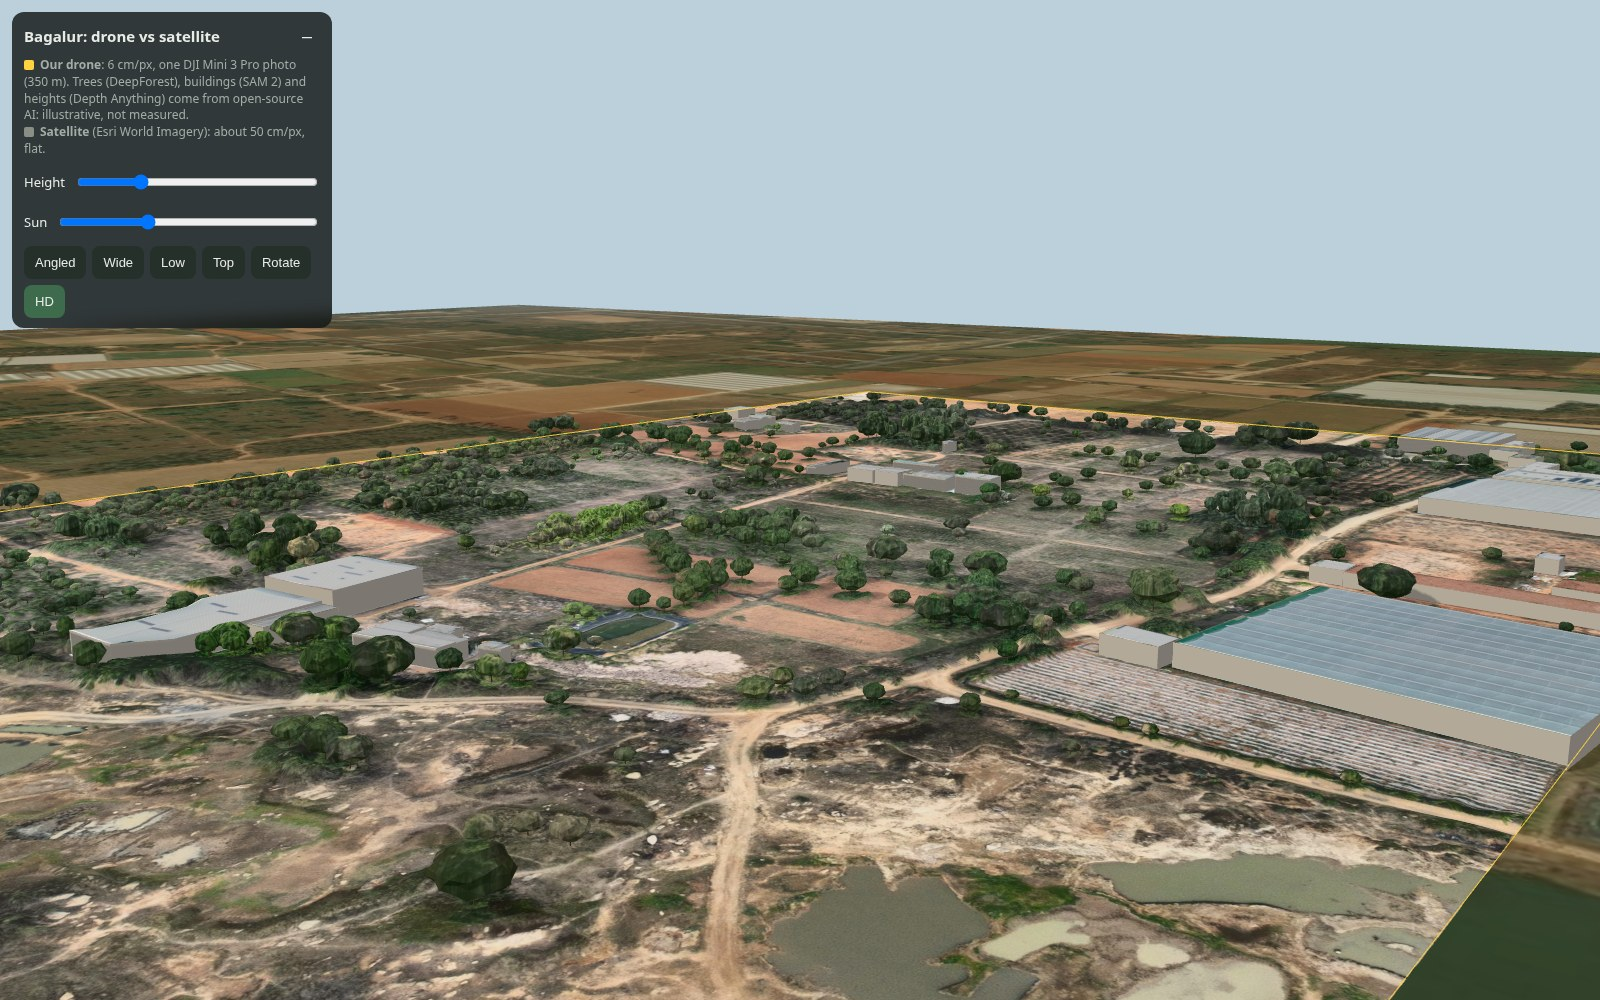
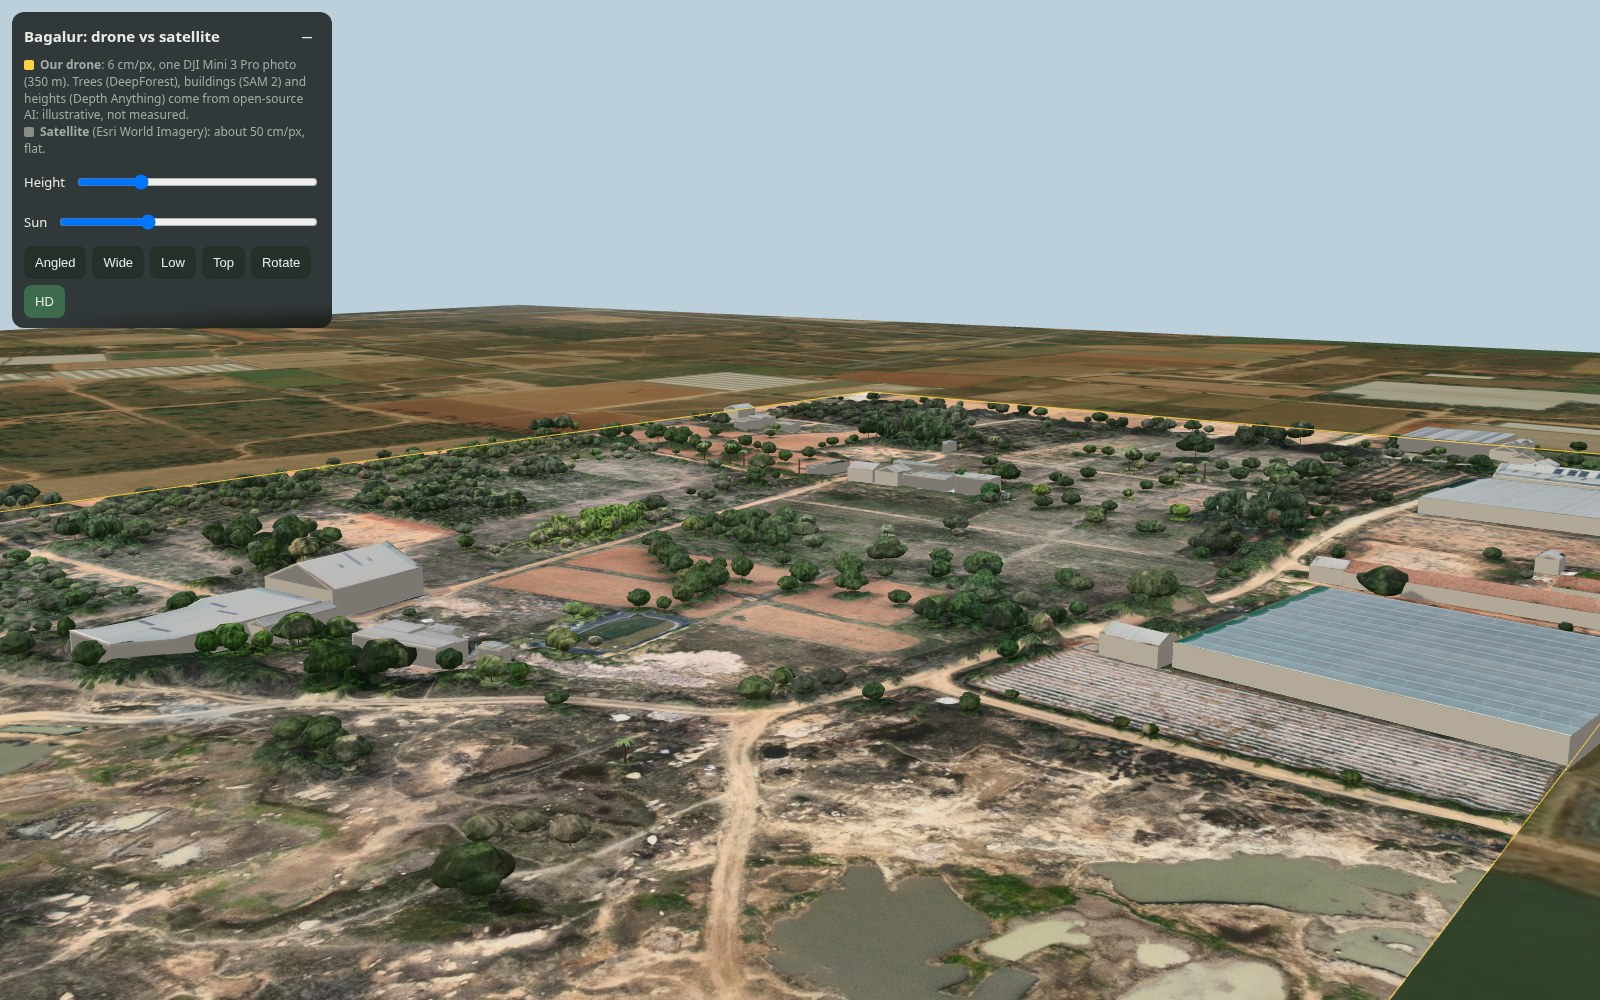
3D viewer: gable roofs, coconut palms, lobed tree crowns with shading

diff --git a/test-data/bagalur/ai3d/web/index.html b/test-data/bagalur/ai3d/web/index.html
@@ -85,7 +85,7 @@ const [SW, SH] = AL.sat_size, SPX = AL.sat_px_m, [DW, DH] = AL.drone_size, A = A
 // drone pixel (u,v) -> world metres (x east, z south), origin = centre of the satellite block
 const SEAM = await (await fetch("seam.json")).json();
 const DPX = Math.hypot(A[0][0], A[1][0]) * SPX;   // metres per drone px
-const TREES = (await (await fetch("trees.json")).json()).trees;       // [cx, cy, rx, ry] in drone px + relative height (DeepForest + canopy peaks)
+const TREES = (await (await fetch("trees.json")).json()).trees;       // [cx, cy, rx, ry] in drone px, relative height, palm flag (DeepForest + canopy peaks)
 const BLD = (await (await fetch("buildings.json")).json()).buildings;   // roof outlines in drone px (SAM 2.1), h = relative height   // correction grid (satellite px) so roads meet the satellite cleanly
 function seamAt(u, v) {   // bilinear sample of the grid at drone pixel (u, v)
   const fx = Math.min(Math.max(u / DW, 0), 1) * (SEAM.gx - 1), fy = Math.min(Math.max(v / DH, 0), 1) * (SEAM.gy - 1);
@@ -140,27 +140,41 @@ function addOutline() {   // 1 px yellow line around the mapped area, sharp at a
   outline = new THREE.LineLoop(g, new THREE.LineBasicMaterial({ color: 0xffd23f, fog: false, depthTest: false, transparent: true, opacity: 0.9 }));
   outline.renderOrder = 10; scene.add(outline);
 }
-// Buildings: the terrain is flat under them; each one is an extruded box with the photo on the roof and plain walls
+// Buildings: the terrain is flat under them. Each is extruded: photo on the roof, plain walls; plain rectangles get a ridge (gable) roof.
 let hw = 0, hh = 0, bld = null;
 function addBuildings(tex) {
   if (bld) { scene.remove(bld); bld.traverse(o => { o.geometry?.dispose(); o.material?.dispose(); }); }
   bld = new THREE.Group();
   const roofM = new THREE.MeshStandardMaterial({ map: tex, roughness: 0.8, side: THREE.DoubleSide }), wallM = new THREE.MeshStandardMaterial({ color: 0xd8d4cb, roughness: 0.95, side: THREE.DoubleSide });   // double-sided: outline direction varies
   for (const b of BLD) {
-    const P = b.poly, n = P.length, w = P.map(([u, v]) => toWorld(u, v));
-    const tris = THREE.ShapeUtils.triangulateShape(P.map(([u, v]) => new THREE.Vector2(u, v)), []);
+    let P = b.poly.map(q => q.slice()), n = P.length, ridge = 0;
+    const R = [];                                        // roof points: [u, v, isRidge]
+    let roofIdx, gableIdx = [];
+    if (b.roof === "gable") {
+      const w = P.map(([u, v]) => toWorld(u, v)), d = (i, j) => Math.hypot(w[i][0] - w[j][0], w[i][1] - w[j][1]);
+      if (d(0, 1) < d(1, 2)) P = [P[1], P[2], P[3], P[0]];            // make edge 0-1 the long side
+      const mid = (i, j) => [(P[i][0] + P[j][0]) / 2, (P[i][1] + P[j][1]) / 2];
+      P.forEach(q => R.push([q[0], q[1], 0])); R.push([...mid(1, 2), 1], [...mid(3, 0), 1]);
+      roofIdx = [0, 1, 4, 0, 4, 5, 2, 3, 5, 2, 5, 4]; gableIdx = [[1, 2, 4], [3, 0, 5]];
+      const ww = P.map(([u, v]) => toWorld(u, v)); ridge = 0.2 * Math.hypot(ww[1][0] - ww[2][0], ww[1][1] - ww[2][1]);   // about a 22 degree pitch
+    } else {
+      P.forEach(q => R.push([q[0], q[1], 0]));
+      roofIdx = THREE.ShapeUtils.triangulateShape(P.map(([u, v]) => new THREE.Vector2(u, v)), []).flat();
+    }
+    const rw = R.map(([u, v]) => toWorld(u, v));
     const roof = new THREE.BufferGeometry();
-    roof.setAttribute("position", new THREE.BufferAttribute(new Float32Array(n * 3), 3));
-    roof.setAttribute("uv", new THREE.BufferAttribute(new Float32Array(P.flatMap(([u, v]) => [u / DW, 1 - v / DH])), 2));
-    roof.setIndex(tris.flat());
+    roof.setAttribute("position", new THREE.BufferAttribute(new Float32Array(R.length * 3), 3));
+    roof.setAttribute("uv", new THREE.BufferAttribute(new Float32Array(R.flatMap(([u, v]) => [u / DW, 1 - v / DH])), 2));
+    roof.setIndex(roofIdx);
     const wall = new THREE.BufferGeometry();
-    wall.setAttribute("position", new THREE.BufferAttribute(new Float32Array(n * 12), 3));
+    wall.setAttribute("position", new THREE.BufferAttribute(new Float32Array((n * 4 + gableIdx.length * 3) * 3), 3));
     const idx = []; for (let i = 0; i < n; i++) { const o = i * 4; idx.push(o, o + 1, o + 2, o + 2, o + 1, o + 3); }
+    gableIdx.forEach((_, k) => idx.push(n * 4 + k * 3, n * 4 + k * 3 + 1, n * 4 + k * 3 + 2));
     wall.setIndex(idx);
     const cu = P.reduce((a, q) => a + q[0], 0) / n, cv = P.reduce((a, q) => a + q[1], 0) / n;
     const rm = new THREE.Mesh(roof, roofM), wm = new THREE.Mesh(wall, wallM);
     rm.castShadow = wm.castShadow = rm.receiveShadow = wm.receiveShadow = true;
-    rm.userData = wm.userData = { w, h: b.h, gi: Math.min(hh - 1, Math.round(cv / DH * (hh - 1))) * hw + Math.min(hw - 1, Math.round(cu / DW * (hw - 1))) };
+    rm.userData = { n, rw, R, ridge, gableIdx, h: b.h, gi: Math.min(hh - 1, Math.round(cv / DH * (hh - 1))) * hw + Math.min(hw - 1, Math.round(cu / DW * (hw - 1))) };
     bld.add(rm, wm);
   }
   scene.add(bld);
@@ -168,55 +182,91 @@ function addBuildings(tex) {
 function raiseBuildings() {
   if (!bld) return;
   for (let k = 0; k < bld.children.length; k += 2) {
-    const rm = bld.children[k], wm = bld.children[k + 1], { w, h, gi } = rm.userData;
-    const y0 = hts[gi] * ex, y1 = y0 + Math.max((0.25 + 0.6 * h) * ex, 0.05), rp = rm.geometry.attributes.position, wp = wm.geometry.attributes.position;
-    w.forEach(([x, z], i) => {
-      const [x2, z2] = w[(i + 1) % w.length];
-      rp.setXYZ(i, x, y1, z);
+    const rm = bld.children[k], wm = bld.children[k + 1], { n, rw, R, ridge, gableIdx, h, gi } = rm.userData;
+    const y0 = hts[gi] * ex, y1 = y0 + Math.max((0.25 + 0.6 * h) * ex, 0.05), yr = y1 + ridge * Math.min(1, ex / 10);
+    const rp = rm.geometry.attributes.position, wp = wm.geometry.attributes.position, Y = i => R[i][2] ? yr : y1;
+    rw.forEach(([x, z], i) => rp.setXYZ(i, x, Y(i), z));
+    for (let i = 0; i < n; i++) {
+      const [x, z] = rw[i], [x2, z2] = rw[(i + 1) % n];
       wp.setXYZ(i * 4, x, y1, z); wp.setXYZ(i * 4 + 1, x2, y1, z2); wp.setXYZ(i * 4 + 2, x, y0 - 1, z); wp.setXYZ(i * 4 + 3, x2, y0 - 1, z2);
-    });
+    }
+    gableIdx.forEach((tri, t) => tri.forEach((i, j) => wp.setXYZ(n * 4 + t * 3 + j, rw[i][0], Y(i), rw[i][1])));
     rp.needsUpdate = wp.needsUpdate = true; rm.geometry.computeVertexNormals(); wm.geometry.computeVertexNormals();
     rm.geometry.computeBoundingSphere(); wm.geometry.computeBoundingSphere();
   }
 }
-// Trees: one lumpy ellipsoid crown per detected tree, textured by the photo projected straight down, on a short trunk
-let treeMesh = null, trunkMesh = null, tInfo = null;
+// Trees: crowns textured by the photo projected straight down, on trunks. Big trees are a cluster of lobes, small ones a single lobe,
+// coconut palms a tall trunk with drooping fronds. Undersides are darkened a little so crowns read as solid.
+let treeMesh = null, trunkMesh = null, palmMesh = null, tInfo = null;
 const gAt = (u, v) => hts[Math.min(hh - 1, Math.max(0, Math.round(v / DH * (hh - 1)))) * hw + Math.min(hw - 1, Math.max(0, Math.round(u / DW * (hw - 1))))];
+const rnd = (a, b, c) => { const x = Math.sin(a * 127.1 + b * 311.7 + c * 74.7) * 43758.5453; return x - Math.floor(x); };
 function addTrees(tex) {
-  for (const m of [treeMesh, trunkMesh]) if (m) { scene.remove(m); m.geometry.dispose(); m.material.dispose(); }
-  const ico = new THREE.IcosahedronGeometry(1, hd ? 2 : 1), ip = ico.attributes.position, nv = ip.count, T = TREES.length;   // non-indexed: faceted, reads as foliage
-  const pos = new Float32Array(T * nv * 3), uv = new Float32Array(T * nv * 2), yu = new Float32Array(T * nv);
-  const rnd = (a, b, c) => { const x = Math.sin(a * 127.1 + b * 311.7 + c * 74.7) * 43758.5453; return x - Math.floor(x); };
-  TREES.forEach(([cx, cy, rx, ry, ht], t) => {
-    for (let i = 0; i < nv; i++) {
-      const k = 0.86 + 0.28 * rnd(Math.round(ip.getX(i) * 50) + t, Math.round(ip.getY(i) * 50), Math.round(ip.getZ(i) * 50));   // same bump for the shared corners of neighbouring faces
-      const sx = ip.getX(i) * k, sy = ip.getY(i) * k, sz = ip.getZ(i) * k, o = t * nv + i;
+  for (const m of [treeMesh, trunkMesh, palmMesh]) if (m) { scene.remove(m); m.geometry.dispose(); m.material.dispose(); }
+  const T = TREES.length, icoBig = new THREE.IcosahedronGeometry(1, hd ? 2 : 1).attributes.position, icoSm = new THREE.IcosahedronGeometry(1, 1).attributes.position;
+  const lobes = [];                                     // [tree, ox, oz, scale, yOffset, ico]
+  TREES.forEach(([cx, cy, rx, ry, ht, palm], t) => {
+    if (palm) return;
+    if (hd && (rx + ry) / 2 > 26) {                     // wider than about 6.5 m: a main lobe and four around it
+      lobes.push([t, 0, 0, 0.74, 0.22, icoSm]);
+      for (let k = 0; k < 4; k++) { const a = k * 1.571 + rnd(t, k, 1) * 1.2, o = 0.42 + 0.1 * rnd(t, k, 2); lobes.push([t, Math.cos(a) * o, Math.sin(a) * o, 0.5 + 0.12 * rnd(t, k, 3), -0.28 + 0.2 * rnd(t, k, 4), icoSm]); }
+    } else lobes.push([t, 0, 0, 1, 0, icoBig]);
+  });
+  const total = lobes.reduce((a, l) => a + l[5].count, 0);
+  const pos = new Float32Array(total * 3), uv = new Float32Array(total * 2), col = new Float32Array(total * 3), yu = new Float32Array(total), ti = new Uint16Array(total);
+  let o = 0;
+  lobes.forEach(([t, ox, oz, sc, yo, ip], li) => {
+    const [cx, cy, rx, ry] = TREES[t];
+    for (let i = 0; i < ip.count; i++, o++) {
+      const k = 0.86 + 0.28 * rnd(Math.round(ip.getX(i) * 50) + li, Math.round(ip.getY(i) * 50), Math.round(ip.getZ(i) * 50));   // same bump for the shared corners of neighbouring faces
+      const sx = ox + ip.getX(i) * k * sc, sy = yo + ip.getY(i) * k * sc, sz = oz + ip.getZ(i) * k * sc;
       const [x, z] = toWorld(cx + sx * rx, cy + sz * ry);
-      pos[o * 3] = x; pos[o * 3 + 2] = z; yu[o] = sy;
-      uv[o * 2] = (cx + sx * rx * 0.8) / DW; uv[o * 2 + 1] = 1 - (cy + sz * ry * 0.8) / DH;      // sample a little inside the crown so the sides stay leaf-coloured
+      pos[o * 3] = x; pos[o * 3 + 2] = z; yu[o] = sy; ti[o] = t;
+      uv[o * 2] = (cx + sx * rx * 0.62) / DW; uv[o * 2 + 1] = 1 - (cy + sz * ry * 0.62) / DH;      // sample a little inside the crown so the sides stay leaf-coloured
+      const c = 0.5 + 0.5 * Math.min(1, Math.max(0, (sy + 1) / 1.6)); col[o * 3] = col[o * 3 + 1] = col[o * 3 + 2] = c;
     }
   });
   const g = new THREE.BufferGeometry();
-  g.setAttribute("position", new THREE.BufferAttribute(pos, 3)); g.setAttribute("uv", new THREE.BufferAttribute(uv, 2));
-  treeMesh = new THREE.Mesh(g, new THREE.MeshStandardMaterial({ map: tex, roughness: 1, emissive: 0x0b1606 }));   // a touch of fill light: crowns were photographed from above, their sides would go too dark
+  g.setAttribute("position", new THREE.BufferAttribute(pos, 3)); g.setAttribute("uv", new THREE.BufferAttribute(uv, 2)); g.setAttribute("color", new THREE.BufferAttribute(col, 3));
+  treeMesh = new THREE.Mesh(g, new THREE.MeshStandardMaterial({ map: tex, roughness: 1, vertexColors: true, emissive: 0x0b1606 }));   // a touch of fill light: crowns were photographed from above
   treeMesh.castShadow = treeMesh.receiveShadow = true; treeMesh.frustumCulled = false;
-  trunkMesh = new THREE.InstancedMesh(new THREE.CylinderGeometry(0.7, 1, 1, 5).translate(0, 0.5, 0), new THREE.MeshStandardMaterial({ color: 0x5b4632, roughness: 1 }), T);
+  trunkMesh = new THREE.InstancedMesh(new THREE.CylinderGeometry(0.7, 1, 1, 6).translate(0, 0.5, 0), new THREE.MeshStandardMaterial({ color: 0x5b4632, roughness: 1 }), T);
   trunkMesh.castShadow = true; trunkMesh.frustumCulled = false;
-  tInfo = { nv, yu };
-  scene.add(treeMesh, trunkMesh);
+  // palms: 13 fronds each, a tapered strip that rises a little then droops
+  const palms = TREES.map((t, i) => [t, i]).filter(([t]) => t[5]), F = 13, S = 5, pv = [], pc = [], pidx = [], pyr = [], pti = [];
+  palms.forEach(([[cx, cy, rx, ry], t]) => {
+    const [x0, z0] = toWorld(cx, cy), L = (rx + ry) / 2 * DPX * 1.05;
+    for (let f = 0; f < F; f++) {
+      const a = f / F * 6.2832 + rnd(t, f, 5) * 0.4, dx = Math.cos(a), dz = Math.sin(a), lift = 0.25 + 0.3 * rnd(t, f, 6), base = pv.length / 3, shade = 0.75 + 0.35 * rnd(t, f, 7);
+      for (let k = 0; k <= S; k++) {
+        const q = k / S, r = q * L, wdt = 0.16 * L * Math.sin(Math.PI * Math.min(1, q * 0.9 + 0.1)), y = L * (lift * q - 0.75 * q * q);
+        for (const sgn of [-1, 1]) { pv.push(x0 + dx * r - dz * wdt * sgn, 0, z0 + dz * r + dx * wdt * sgn); pyr.push(y); pti.push(t); pc.push(0.30 * shade, 0.46 * shade, 0.20 * shade); }
+        if (k < S) { const v = base + k * 2; pidx.push(v, v + 1, v + 2, v + 2, v + 1, v + 3); }
+      }
+    }
+  });
+  const pg = new THREE.BufferGeometry();
+  pg.setAttribute("position", new THREE.BufferAttribute(new Float32Array(pv), 3)); pg.setAttribute("color", new THREE.BufferAttribute(new Float32Array(pc), 3)); pg.setIndex(pidx);
+  palmMesh = new THREE.Mesh(pg, new THREE.MeshStandardMaterial({ vertexColors: true, roughness: 0.9, side: THREE.DoubleSide }));
+  palmMesh.castShadow = true; palmMesh.frustumCulled = false;
+  tInfo = { yu, ti, pyr, pti };
+  scene.add(treeMesh, trunkMesh, palmMesh);
 }
 const _m = new THREE.Matrix4();
 function raiseTrees() {
   if (!treeMesh) return;
-  const { nv, yu } = tInfo, pos = treeMesh.geometry.attributes.position;
-  TREES.forEach(([cx, cy, rx, ry, ht], t) => {
-    const rw = (rx + ry) / 2 * DPX * Math.min(1, ex / 10);                                 // crown radius in metres
-    const y0 = gAt(cx, cy) * ex, H = Math.max(ht * ex, 1.5 * rw), half = Math.min(0.38 * H, Math.max(0.35 * H, 0.75 * rw)), low = H - 2 * half;   // crowns stay round, never pancakes
-    for (let i = 0; i < nv; i++) pos.setY(t * nv + i, y0 + low + half * (1 + yu[t * nv + i]));
-    const [x, z] = toWorld(cx, cy), r = Math.max(0.12, Math.min(0.45, (rx + ry) * 0.0012 * ex / 10));
-    trunkMesh.setMatrixAt(t, _m.makeScale(r, Math.max(low + half * 0.6, 0.01), r).setPosition(x, y0 - 0.3, z));
+  const { yu, ti, pyr, pti } = tInfo, pos = treeMesh.geometry.attributes.position, pp = palmMesh.geometry.attributes.position, T = TREES.length, k = Math.min(1, ex / 10);
+  const y0 = new Float32Array(T), low = new Float32Array(T), half = new Float32Array(T);
+  TREES.forEach(([cx, cy, rx, ry, ht, palm], t) => {
+    const rw = (rx + ry) / 2 * DPX * k;                                  // crown radius in metres
+    y0[t] = gAt(cx, cy) * ex;
+    if (palm) { low[t] = Math.max(ht * ex * 1.6, 2.2 * rw); half[t] = 0; }   // palms: the fronds sit on top of a tall trunk
+    else { const H = Math.max(ht * ex, 1.5 * rw); half[t] = Math.min(0.38 * H, Math.max(0.35 * H, 0.75 * rw)); low[t] = H - 2 * half[t]; }   // crowns stay round, never pancakes
+    const [x, z] = toWorld(cx, cy), r = palm ? 0.22 * k + 0.02 : Math.max(0.12, Math.min(0.45, (rx + ry) * 0.0012 * k));
+    trunkMesh.setMatrixAt(t, _m.makeScale(r, Math.max(palm ? low[t] + 0.3 : low[t] + half[t] * 0.6, 0.01), r).setPosition(x, y0[t] - 0.3, z));
   });
-  pos.needsUpdate = true; treeMesh.geometry.computeVertexNormals(); trunkMesh.instanceMatrix.needsUpdate = true;
+  for (let i = 0; i < yu.length; i++) { const t = ti[i]; pos.setY(i, y0[t] + low[t] + half[t] * (1 + yu[i])); }
+  for (let i = 0; i < pyr.length; i++) { const t = pti[i]; pp.setY(i, y0[t] + low[t] + pyr[i] * k); }
+  pos.needsUpdate = pp.needsUpdate = true; treeMesh.geometry.computeVertexNormals(); palmMesh.geometry.computeVertexNormals(); trunkMesh.instanceMatrix.needsUpdate = true;
 }
 function applyHeights() {
   raiseBuildings(); raiseTrees();
@@ -246,6 +296,7 @@ try {
 }
 setSun(120);
 go(q.get("view") || "oblique");
+if (q.get("cam")) { const c = q.get("cam").split(",").map(Number); camera.position.set(CX + c[0], c[1], CZ + c[2]); controls.target.set(CX + c[3], c[4], CZ + c[5]); controls.update(); }   // ?cam=x,y,z,tx,ty,tz in metres from the centre: for close-up links
 
 let pending = false;
 document.getElementById("ex").addEventListener("input", e => {

diff --git a/test-data/bagalur/ai3d/relief2.py b/test-data/bagalur/ai3d/relief2.py
@@ -46,8 +46,23 @@ for cx, cy, rx, ry in crowns:
     yy, xx = np.mgrid[y0:y1, x0:x1]; q = ((xx - cx) / rx) ** 2 + ((yy - cy) / ry) ** 2
     hd = np.percentile(obj[y0:y1, x0:x1][q < 1], 85) if (q < 1).any() else 0
     ht = float(np.clip(0.55 * hd + 0.45 * 0.085 * (rx + ry) * M * 1.15, 0.15, 1.15))
-    out.append([round(float(v), 1) for v in (cx * 2, cy * 2, rx * 2, ry * 2)] + [round(ht, 3)])      # drone px at 4032, relative height
+    out.append([round(float(v), 1) for v in (cx * 2, cy * 2, rx * 2, ry * 2)] + [round(ht, 3)])      # drone px at 4032, relative height, (palm flag added below)
     cv2.ellipse(tmask, (int(cx), int(cy)), (int(rx), int(ry)), 0, 0, 360, 1, -1)
+# coconut palms: fronds run outward from the centre, so image edges point around the crown, not across it
+full = cv2.imread("web/tex_hd.jpg"); gray = cv2.GaussianBlur(cv2.cvtColor(full, cv2.COLOR_BGR2GRAY).astype(np.float32), (0, 0), 1.2)
+sx, sy = cv2.Sobel(gray, cv2.CV_32F, 1, 0), cv2.Sobel(gray, cv2.CV_32F, 0, 1); tiles = []
+for t in out:
+    cx, cy, R = int(t[0]), int(t[1]), int(max(t[2], t[3]) * 1.3); t.append(0)
+    if R < 16 or cx - R - 5 < 0 or cy - R - 5 < 0 or cx + R + 5 >= 4032 or cy + R + 5 >= 3024: continue
+    yy, xx = np.mgrid[-R:R, -R:R].astype(np.float32); rr = np.hypot(xx, yy) + 1e-3; ok = (rr > 0.25 * R) & (rr < R); best = 9
+    for ox in (-4, 0, 4):
+        for oy in (-4, 0, 4):
+            sl = (slice(cy + oy - R, cy + oy + R), slice(cx + ox - R, cx + ox + R)); ax, ay = sx[sl], sy[sl]
+            best = min(best, float((np.abs(ax * xx + ay * yy) / rr)[ok].sum() / np.hypot(ax, ay)[ok].sum()))
+    if best < 0.56 and gray[cy - R:cy + R, cx - R:cx + R][ok].std() > 22 and exg[(cy - R // 3) // 2:(cy + R // 3) // 2 + 1, (cx - R // 3) // 2:(cx + R // 3) // 2 + 1].mean() > 0.06:   # green at the heart (rocks are not)
+        t[5] = 1; tiles.append(cv2.resize(full[cy - R:cy + R, cx - R:cx + R], (100, 100)))
+print(len(tiles), "palms")
+if tiles: cv2.imwrite("work/palms.jpg", np.hstack(tiles[:16]))
 json.dump(dict(size=[4032, 3024], trees=out), open("web/trees.json", "w"), separators=(",", ":"))
 # 4) everything else: low crops keep a little texture, bare ground/shadows go flat, buildings cut out
 low = cv2.GaussianBlur(obj * veg, (0, 0), 2) * 0.35 + cv2.GaussianBlur(obj * (1 - veg), (0, 0), 4) * 0.12

diff --git a/test-data/bagalur/ai3d/buildings.py b/test-data/bagalur/ai3d/buildings.py
@@ -57,7 +57,9 @@ for i in range(1, n):
     poly = cv2.boxPoints(rect) if a / (rect[1][0] * rect[1][1]) > 0.88 else cv2.approxPolyDP(c, 0.012 * cv2.arcLength(c, True), True).reshape(-1, 2)
     ring = (cv2.dilate(m, np.ones((81, 81), np.uint8)) > 0) & (U == 0)
     dh = float(np.median(obj[m > 0]) - np.percentile(obj[ring], 25))
-    out.append(dict(poly=[[round(float(x), 1), round(float(y), 1)] for x, y in poly], h=round(max(dh, 0.12), 3), area_m2=round(a * 0.0108, 0)))
+    short = min(rect[1]) * 0.104                                  # metres
+    gable = len(poly) == 4 and a / (rect[1][0] * rect[1][1]) > 0.88 and 3.5 < short < 22 and a * 0.0108 < 1200   # plain rectangles of house/shed size get a ridge; greenhouses stay flat
+    out.append(dict(roof="gable" if gable else "flat", poly=[[round(float(x), 1), round(float(y), 1)] for x, y in poly], h=round(max(dh, 0.12), 3), area_m2=round(a * 0.0108, 0)))
     cv2.polylines(vis, [np.int32(poly)], True, (255, 0, 255), 5)
     cv2.putText(vis, f"{len(out)-1} h{dh:.2f}", tuple(np.int32(poly).min(0)), 0, 1.4, (0, 255, 255), 3)
 print(len(out), "buildings")

diff --git a/README.md b/README.md
@@ -95,11 +95,15 @@ The photo sits at its true position inside a 2 × 1.5 km block of Esri satellite
 
 **Trees and buildings are real 3D objects, found by open-source models** (all run locally, no paid API):
 
-- **Trees:** DeepForest (tree-crown detector trained on 10 cm aerial imagery, the same scale as this photo) finds the separate trees; dense blocks and clumps get one crown per bright canopy peak. 854 trees in total (`trees.py`, `relief2.py`). The viewer builds each as a rounded crown on a trunk, coloured by the photo projected straight down.
-- **Buildings:** SAM 2.1 segments the photo; segments that are raised in the AI depth, not vegetation and compact are kept as roofs, plus a few clicked by hand where it missed (`sam_masks.py`, `sam_points.py`, `buildings.py`). 39 footprints, extruded with the photo on the roof and plain vertical walls.
+- **Trees:** DeepForest (tree-crown detector trained on 10 cm aerial imagery, the same scale as this photo) finds the separate trees; dense blocks and clumps get one crown per bright canopy peak. 854 trees in total (`trees.py`, `relief2.py`). The viewer builds each on a trunk with a crown coloured by the photo projected straight down: big trees are a cluster of lobes, small ones a single lobe, undersides shaded. Coconut palms are picked out by their radial fronds (image edges run around the crown instead of across it) and get a tall trunk with drooping fronds.
+- **Buildings:** SAM 2.1 segments the photo; segments that are raised in the AI depth, not vegetation and compact are kept as roofs, plus a few clicked by hand where it missed (`sam_masks.py`, `sam_points.py`, `buildings.py`). 39 footprints, extruded with the photo on the roof and plain vertical walls. The 17 plain rectangles of house or shed size get a ridge (gable) roof; greenhouses stay flat.
 - The ground keeps only a gentle relief from Depth Anything V2.
 
 <img src="docs/img/ai3d_trees_buildings.jpg" width="820">
+
+<img src="docs/img/ai3d_closeup.jpg" width="820">
+
+Close-up links: add `?cam=x,y,z,tx,ty,tz` (camera and target, metres from the centre of the photo).
 
 <img src="docs/img/ai3d_detections.jpg" width="820">
 
